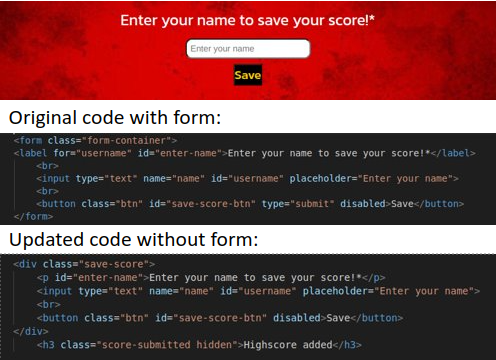
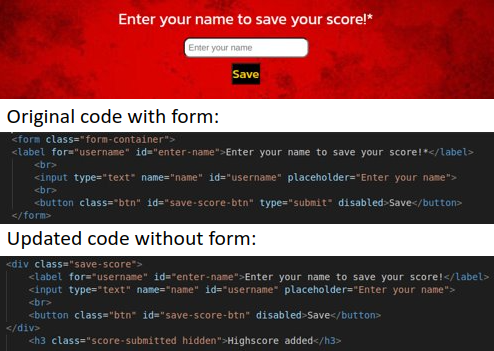
Add label for username input for accessibility

Changed region(s): [[0.0, 0.114, 1.0, 0.9972], [0.2429, 0.0285, 0.7591, 0.0855]]

diff --git a/index.html b/index.html
@@ -92,7 +92,7 @@
                 <div id="quiz-score">You scored: </div>
                 <div id="end-timer">00:00:00</div>
                 <div class="save-score">
-                    <p id="enter-name">Enter your name to save your score!</p>
+                    <label for="username" id="enter-name">Enter your name to save your score!</label>
                     <input type="text" name="name" id="username" placeholder="Enter your name">
                     <br>
                     <button class="btn" id="save-score-btn" disabled>Save</button>

diff --git a/README.md b/README.md
@@ -448,7 +448,7 @@ In terms of functionality, most of the functions of the quiz work as expected, h
 [Back to Top](#german-idiom-quiz)
 
 # Bugs
-## Resolved
+## Resolved bugs
 
 - Bug 1:  question counter and progress bar bug  
 A bug was created during the early phases of development due to the `getNextQuestion()` function being too large and meaning that on each iteration of the function, the event listener for the next button was being triggered one additional time (once for the first question, twice for the second question, etc.) causing the question counter and progress bar to increment by more than one each time. This bug was solved by taking the event listener for the next button outside of the `getNextQuestion()` function and creating a new `nextQuestion()` function.
@@ -486,9 +486,9 @@ This was caused by the use of a form for submitting the high score. The form was
 
 [Back to Top](#german-idiom-quiz)
 
-# Outstanding
+## Outstanding bugs
 
-
+There are no remaining bugs that I am aware of.
 
 [Back to Top](#german-idiom-quiz)
 
